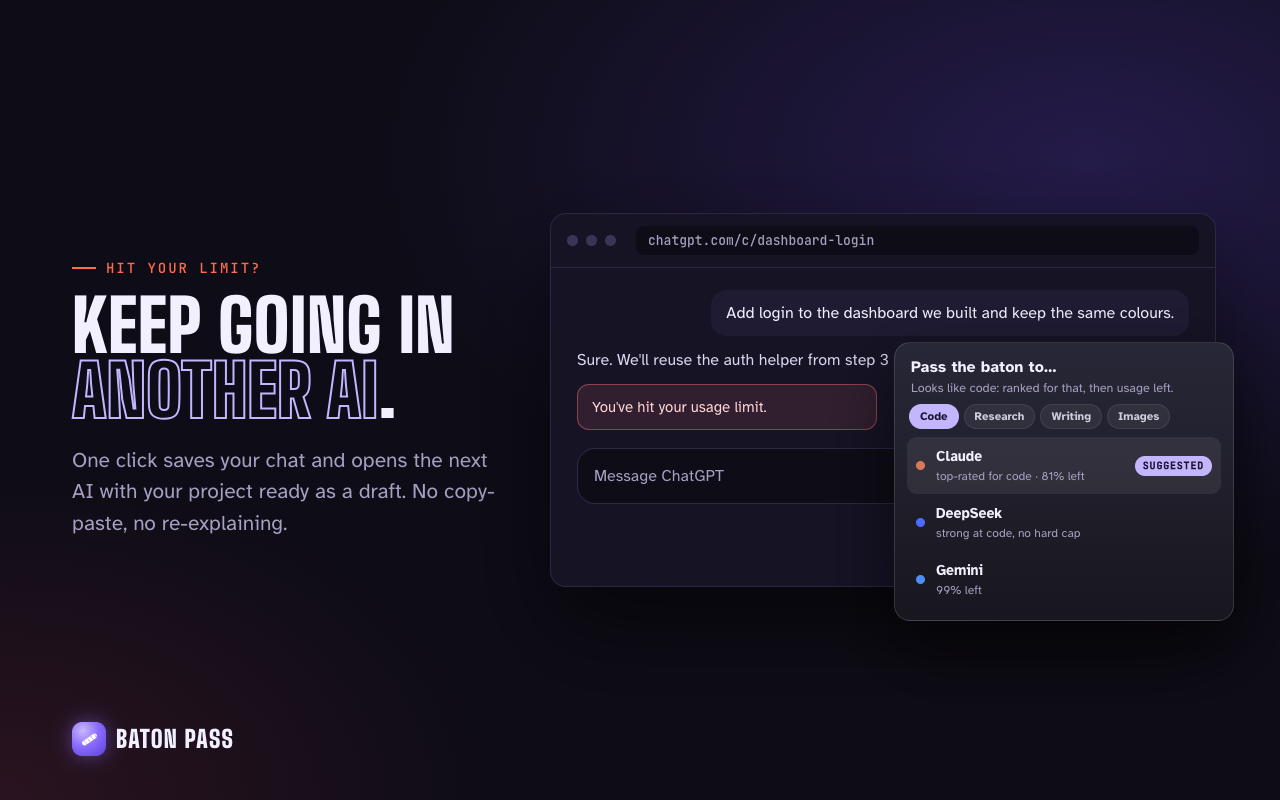
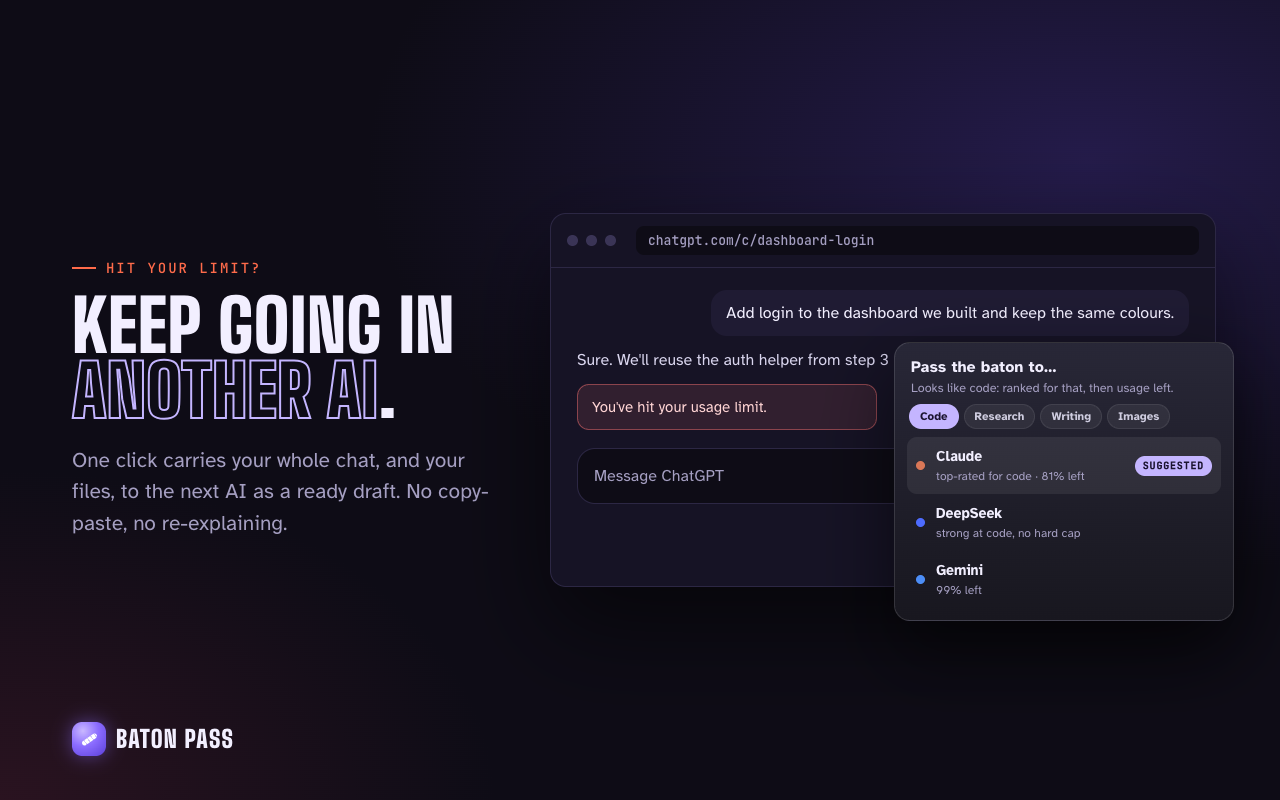
Store screenshots for 1.1.0: whole chat with files, the reply check, long-chat tip, accurate privacy rules
Five 1280x800 scenes rendered from store/src with npm run render:store:
1 continue (whole chat and files), 2 whole-chat (draft with the full chat .md and an upload attached, capture
check), 3 check (Baton checks the next AI's first reply; the card is exactly what checkReply returns for the
scene's reply), 4 usage (usage bar, long-chat tip, all six), 5 private. The suggest and draft scenes are folded
into 1 and 2. Privacy rule "Reads usage, nothing else" was no longer true in 1.1.0 and is replaced. No
unverifiable "only" claims. docs/store-listing.md lists the new files.

Changed region(s): [[0.0625, 0.5625, 0.375, 0.625]]

diff --git a/store/src/04-usage.html b/store/src/04-usage.html
@@ -1,0 +1,24 @@
+<!doctype html><html><head><meta charset="utf-8"><link rel="stylesheet" href="style.css">
+<style>.card{width:420px;padding:13px 14px;border-radius:14px;background:#1b1d2b;border:1px solid #3a3d55;box-shadow:0 26px 60px rgba(0,0,0,.55);font-size:13.5px;justify-self:end;margin-top:-8px}.card strong{display:block;font-size:15px}.card small{display:block;color:#b9bdd4;font-size:12.5px;margin-top:3px;font-weight:400;line-height:1.45}.btn{display:grid;grid-template-columns:auto 1fr;gap:12px;align-items:center;padding:8px 10px;border:1px solid #474b68;background:#262940;border-radius:9px;margin-top:6px}.btn b{font-size:13px}.btn span{color:#b9bdd4;font-size:11.5px;text-align:right}</style></head><body>
+<div class="canvas">
+  <div><p class="eyebrow">Knows when to switch</p><h1>Usage left. <em>Before</em> it's too late.</h1><p class="sub">A small bar under the chat box shows each AI's own limit and reset time. When a chat grows long enough that answers start to slip, Baton suggests a fresh start with a handoff.</p></div>
+  <div style="display:grid;gap:16px">
+    <div class="win"><div class="bar"><i></i><i></i><i></i><span class="url">claude.ai/chat/research-plan</span></div>
+      <div class="page"><div class="you">Summarise the three papers and compare their methods.</div>
+        <div class="composer">Reply to Claude…<span class="send">↑</span></div>
+        <div class="pill"><span class="k">Session</span><span class="ring" style="--p:63;--c:var(--ok)"></span><b>63% left</b><span class="n">3h 9m</span><span class="sep"></span><span class="k">Weekly</span><span class="ring" style="--p:81;--c:var(--ok)"></span><b>81% left</b><span class="n">2d 16h</span><span class="sep"></span><span class="k">Chat size</span><b>≈34k tokens</b></div>
+      </div>
+    </div>
+    <div class="card">
+      <strong>This chat is getting long<small>≈34k tokens, 72 messages. Answers can start to slip around this length. When you reach a good stopping point, a fresh chat with a handoff keeps what matters.</small></strong>
+      <div class="btn"><b>Fresh chat in Claude</b><span>Same AI, new chat, starting from a handoff of this one</span></div>
+      <div class="btn"><b>Pass to another AI</b><span>Pick where to continue, ranked for this chat</span></div>
+    </div>
+    <div class="panel" style="padding:14px 18px"><h5>Usage · all six</h5>
+      <div class="lane"><b>Claude</b><span class="track"><span style="--w:63%;--c:var(--ok)"></span></span><span class="val">63% left<small>3h 9m</small></span></div>
+      <div class="lane"><b>Gemini</b><span class="track"><span style="--w:99%;--c:#4c8df6"></span></span><span class="val">99% left<small>weekly</small></span></div>
+      <div class="lane"><b>Grok</b><span class="track"><span style="--w:30%;--c:var(--mid)"></span></span><span class="val">≈6 left<small>counted</small></span></div>
+    </div>
+  </div>
+  <div class="brand"><span class="mark"><i></i></span>Baton Pass</div>
+</div></body></html>

diff --git a/store/src/02-whole-chat.html b/store/src/02-whole-chat.html
@@ -1,0 +1,25 @@
+<!doctype html><html><head><meta charset="utf-8"><link rel="stylesheet" href="style.css">
+<style>.files{display:flex;gap:10px;margin-bottom:12px}.file{display:flex;gap:10px;align-items:center;padding:9px 12px;border-radius:12px;background:var(--ink-3);border:1px solid var(--line);font-size:13.5px}.file b{display:block;font-weight:700}.file small{color:var(--mute);font-size:11.5px}.ftype{width:30px;height:34px;border-radius:7px;display:grid;place-items:center;font:700 9px var(--mono);color:#1b1430;background:var(--violet-soft)}.ftype.img{background:#7dd3fc}.check{display:flex;gap:10px;align-items:center;color:var(--ok);font-size:15px;margin-top:4px}</style></head><body>
+<div class="canvas">
+  <div><p class="eyebrow">Nothing left behind</p><h1>The <em>whole</em> chat. Files too.</h1><p class="sub">Baton reads the chat as the AI stores it, not just what's on screen. Long chats go as a summary with the full chat attached, and your uploads come along. You read it, then press Send.</p></div>
+  <div class="win"><div class="bar"><i></i><i></i><i></i><span class="url">claude.ai/new</span></div>
+    <div class="page" style="padding-top:28px">
+      <div class="composer" style="padding:16px 60px 16px 16px;color:var(--chalk);border-color:var(--violet);box-shadow:0 0 0 3px rgba(139,108,255,.18)">
+        <div class="files">
+          <div class="file"><span class="ftype">MD</span><span><b>Dashboard login - full chat.md</b><small>every message, word for word</small></span></div>
+          <div class="file"><span class="ftype img">PNG</span><span><b>login-mockup.png</b><small>your upload</small></span></div>
+        </div>
+        <div style="font:500 13.5px/1.65 var(--mono)">
+          <b style="font-family:var(--body);font-size:14.5px">Goal:</b> add login to my dashboard, same violet theme.<br>
+          <b style="font-family:var(--body);font-size:14.5px">Decisions:</b> reuse the auth helper, not next-auth.<br>
+          <b style="font-family:var(--body);font-size:14.5px">Exact names:</b> useAuth() · src/theme/tokens.ts · /dashboard<br>
+          <b style="font-family:var(--body);font-size:14.5px">Next:</b> login form, session check, redirect.
+        </div>
+        <span class="send" style="background:var(--violet);color:#fff">↑</span>
+      </div>
+      <div class="check">✓ 64 messages (32 yours, 32 replies), in order · 2 files attached</div>
+      <div style="color:var(--mute);font-size:14px">Nothing is sent until you press Send.</div>
+    </div>
+  </div>
+  <div class="brand"><span class="mark"><i></i></span>Baton Pass</div>
+</div></body></html>

diff --git a/store/src/03-check.html b/store/src/03-check.html
@@ -1,0 +1,25 @@
+<!doctype html><html><head><meta charset="utf-8"><link rel="stylesheet" href="style.css">
+<style>.ai code{white-space:nowrap}.card{position:absolute;right:-14px;bottom:-40px;width:430px;padding:14px 15px;border-radius:14px;background:#1b1d2b;border:1px solid #3a3d55;box-shadow:0 30px 70px rgba(0,0,0,.6);font-size:14px}.card strong{display:block;font-size:15.5px}.card small{display:block;color:#b9bdd4;font-size:12.5px;margin-top:3px;font-weight:400}.card ul{margin:10px 0 10px;padding-left:20px;display:grid;gap:5px}.card li{line-height:1.4}.btn{display:grid;grid-template-columns:auto 1fr;gap:12px;align-items:center;padding:9px 11px;border:1px solid #474b68;background:#262940;border-radius:9px;margin-top:6px}.btn b{font-size:13.5px}.btn span{color:#b9bdd4;font-size:12px;text-align:right}.btn.main{border-color:var(--violet);background:#2e2652}</style></head><body>
+<div class="canvas">
+  <div><p class="eyebrow">After the handoff</p><h1>Checks the next AI <em>got it</em>.</h1><p class="sub">After the new AI's first reply, Baton compares it with the handoff: your rules, what you turned down, your latest request. If something slipped, one click puts a correction in the chat box.</p></div>
+  <div style="position:relative">
+    <div class="win"><div class="bar"><i></i><i></i><i></i><span class="url">claude.ai/chat/dashboard-login</span></div>
+      <div class="page">
+        <div class="you" style="font-size:14px;color:var(--mute)">Continuing from ChatGPT: dashboard login, same violet theme…</div>
+        <div class="ai">Here's the login page for your dashboard. For the session I'd add <code>next-auth</code> with Google sign-in, and I'd change the form colours to a neutral grey…</div>
+        <div class="composer">Reply to Claude…<span class="send">↑</span></div>
+        <div style="height:150px"></div>
+      </div>
+    </div>
+    <div class="card">
+      <strong>Baton checked Claude’s first reply<small>Compared with the handoff. These are guesses from the text, so read the reply too.</small></strong>
+      <ul>
+        <li>It may be suggesting next-auth, which you turned down.</li>
+        <li>It may go against your rule: “Never change the violet theme.”</li>
+      </ul>
+      <div class="btn main"><b>Put a correction in the chat box</b><span>Only what it missed; you read it and press Send</span></div>
+      <div class="btn"><b>Looks fine</b><span>Close this check</span></div>
+    </div>
+  </div>
+  <div class="brand"><span class="mark"><i></i></span>Baton Pass</div>
+</div></body></html>

diff --git a/store/src/05-private.html b/store/src/05-private.html
@@ -3,10 +3,10 @@
 <div class="canvas">
   <div><p class="eyebrow">Free and private</p><h1>Built to stay on <em>your side</em>.</h1><p class="sub">Free, with no account needed. Works with ChatGPT, Claude, Gemini, DeepSeek, Grok and Perplexity.</p></div>
   <div class="rules">
-    <div class="rule"><b>You press Send</b><span>Baton types a draft. It never sends a message for you.</span></div>
+    <div class="rule"><b>You press Send</b><span>Baton types a draft and attaches files. It never sends a message for you.</span></div>
     <div class="rule"><b>Saved on your device</b><span>Batons stay in your browser. Google backup is optional.</span></div>
-    <div class="rule"><b>Reads usage, nothing else</b><span>With your existing sign-in, only each AI's usage figures. No passwords, nothing sent to Baton.</span></div>
-    <div class="rule"><b>On-device model</b><span>The task guess runs in your browser. Nothing you type is sent.</span></div>
+    <div class="rule"><b>Read in your browser</b><span>Chats are read on each AI's own site with your sign-in. Nothing goes to Baton unless you turn on backup.</span></div>
+    <div class="rule"><b>On-device model</b><span>The task guess and every check run in your browser.</span></div>
     <div class="rule"><b>No account tricks</b><span>Never switches or rotates accounts to dodge limits.</span></div>
     <div class="rule"><b>Open source</b><span>Read exactly what it does on GitHub.</span></div>
   </div>

diff --git a/store/src/01-continue.html b/store/src/01-continue.html
@@ -1,6 +1,6 @@
 <!doctype html><html><head><meta charset="utf-8"><link rel="stylesheet" href="style.css"></head><body>
 <div class="canvas">
-  <div><p class="eyebrow">Hit your limit?</p><h1>Keep going in <em>another AI</em>.</h1><p class="sub">One click saves your chat and opens the next AI with your project ready as a draft. No copy-paste, no re-explaining.</p></div>
+  <div><p class="eyebrow">Hit your limit?</p><h1>Keep going in <em>another AI</em>.</h1><p class="sub">One click carries your whole chat, and your files, to the next AI as a ready draft. No copy-paste, no re-explaining.</p></div>
   <div style="position:relative">
     <div class="win"><div class="bar"><i></i><i></i><i></i><span class="url">chatgpt.com/c/dashboard-login</span></div>
       <div class="page">

diff --git a/docs/store-listing.md b/docs/store-listing.md
@@ -55,11 +55,13 @@ Baton Pass is independent and not affiliated with OpenAI, Anthropic, Google, Dee
 | Field | File | Size |
 |---|---|---|
 | Store icon | `store/icon-128.png` | 128×128 |
-| Screenshot 1 | `store/screenshot-01-continue.png` — hit the limit, pass the baton | 1280×800 |
-| Screenshot 2 | `store/screenshot-02-usage.png` — usage bar and all six AIs | 1280×800 |
-| Screenshot 3 | `store/screenshot-03-suggest.png` — suggestions by task | 1280×800 |
-| Screenshot 4 | `store/screenshot-04-draft.png` — arrives as a draft, you press Send | 1280×800 |
+| Screenshot 1 | `store/screenshot-01-continue.png` — hit the limit, pass the whole chat and files to the AI suggested for the task | 1280×800 |
+| Screenshot 2 | `store/screenshot-02-whole-chat.png` — arrives as a draft with the full chat and your upload attached, capture check shown; you press Send | 1280×800 |
+| Screenshot 3 | `store/screenshot-03-check.png` — Baton checks the next AI's first reply and offers a correction | 1280×800 |
+| Screenshot 4 | `store/screenshot-04-usage.png` — usage bar, long-chat tip and all six AIs | 1280×800 |
 | Screenshot 5 | `store/screenshot-05-private.png` — privacy | 1280×800 |
+
+The screenshots are designed scenes rendered from `store/src/*.html` (`npm run render:store`). Their wording is the extension's own, and screenshot 3's card shows exactly what Baton's reply check returns for the reply in the scene.
 | Small promo tile | `store/promo-small-440x280.png` | 440×280 |
 | Marquee promo tile | `store/promo-marquee-1400x560.png` | 1400×560 |
 
